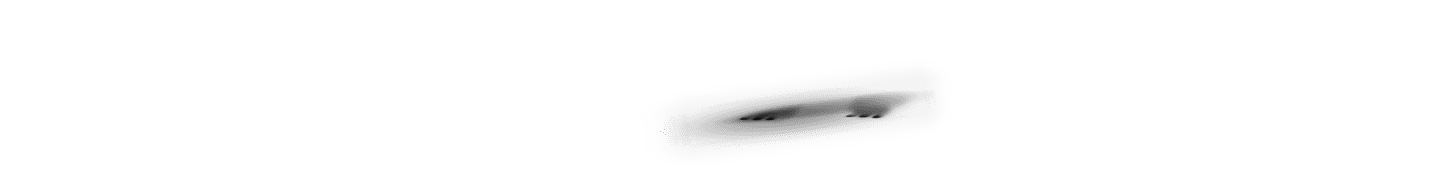
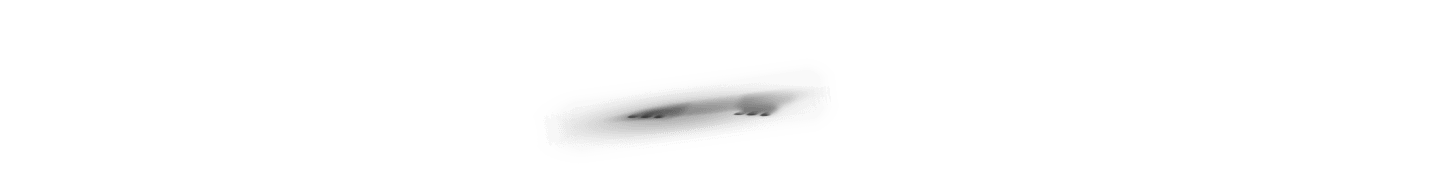
728x90

Changed region(s): [[0.3709, 0.5, 0.649, 0.7778]]

diff --git a/Speed/10608-01_728x90/index.html b/Speed/10608-01_728x90/index.html
@@ -23,25 +23,25 @@
     <div id="main">
         <div id="background"></div>
 
-        <!-- <img src="images/ref.png" id="ref" class="absolute full-width"/> -->
+        <!-- <img src="images/frame.jpg" id="ref" style="opacity: .5; z-index: 111;" class="absolute full-width"/> -->
 
         <!-- <div id="frame-left" class="absolute frame"></div> -->
         <div id="frame-right" class="absolute frame"></div>
         <div id="frame-bottom" class="absolute frame"></div>
 
         <div id="headline">
-          <img src="images/headline-8.png" id="headline-8" class="absolute full-width headline" alt="" />
-          <img src="images/headline-7.png" id="headline-7" class="absolute full-width headline" alt="" />
-          <img src="images/headline-6.png" id="headline-6" class="absolute full-width headline" alt="" />
-          <img src="images/headline-5.png" id="headline-5" class="absolute full-width headline" alt="" />
-          <img src="images/headline-4.png" id="headline-4" class="absolute full-width headline" alt="" />
-          <img src="images/headline-3.png" id="headline-3" class="absolute full-width headline" alt="" />
-          <img src="images/headline-2.png" id="headline-2" class="absolute full-width headline" alt="" />
-          <img src="images/headline-1.png" id="headline-1" class="absolute full-width headline" alt="" />
+          <img src="images/headline-1.png" id="headline-1" class="absolute full-width headline hidden" alt="" />
+          <img src="images/headline-2.png" id="headline-2" class="absolute full-width headline hidden" alt="" />
+          <img src="images/headline-3.png" id="headline-3" class="absolute full-width headline hidden" alt="" />
+          <img src="images/headline-4.png" id="headline-4" class="absolute full-width headline hidden" alt="" />
+          <img src="images/headline-5.png" id="headline-5" class="absolute full-width headline hidden" alt="" />
+          <img src="images/headline-6.png" id="headline-6" class="absolute full-width headline hidden" alt="" />
+          <img src="images/headline-7.png" id="headline-7" class="absolute full-width headline hidden" alt="" />
+          <img src="images/headline-8.png" id="headline-8" class="absolute full-width headline hidden" alt="" />
         </div>
 
-        <img src="images/turtle.png" id="turtle" class="absolute full-width"/>
         <img src="images/turtle-shadow.png" id="turtle-shadow" class="absolute full-width"/>
+        <img src="images/turtle.png" id="turtle" class="absolute full-width"/>
         
         <img src="images/text1.png" id="text1" class="absolute full-width" alt="" />
 

diff --git a/Speed/10608-01_728x90/styles.css b/Speed/10608-01_728x90/styles.css
@@ -39,9 +39,11 @@ html, body {
 }
 
 .headline {
-  top: 25px;
-  left: -728px;
-  transform: scale(0);
+  top: -10px;
+  left: 0px;
+  transform: scale(2.5);
+  transform-origin: center center;
+  display: inline-block;
 }
 
 #turtle,
@@ -56,14 +58,14 @@ html, body {
 
 #logo {
   width: 100px;
-  left: 613px;
-  top: 16px;
+  left: 613.5px;
+  top: 16.5px;
 }
 
 #cta {
-  width: 96px;
+  width: 97px;
   left: 484px;
-  top: 27px;
+  top: 28px;
 }
 
 .frame {
@@ -82,14 +84,14 @@ html, body {
 }
 
 #frame-right {
-  top: -125px;
+  top: -127px;
   left: 793px;
 
   transform: rotate(-20deg);
 }
 
 #frame-bottom {
-  top: 167px;
+  top: 168px;
   left: -250px;
 
   transform: rotate(27deg);

diff --git a/Speed/10608-01_728x90/main.js b/Speed/10608-01_728x90/main.js
@@ -24,9 +24,10 @@ function animate() {
 
   // tl1.set(["#main_content"], { autoAlpha: 1, force3D: true });
   tl1.set(["#cta"], { force3D: false, rotation: .001 });
+  tl1.set(["#turtle-shadow"], { x:"55px", y:"0px" });
   
   tl1.to(['#turtle', '#turtle-shadow'], 1,{  y: '-=35', x: '+=728', ease: "power1.out" }, 0);
-  tl1.staggerTo(['.headline'], 1,{ scale: 1, y: '-=35', x: '+=728', ease: "power1.out" }, 0.1, 0);
+  tl1.staggerTo(['.headline'], 0.5,{ scale: 1, autoAlpha:1,  ease: "back.out(1.1)" }, 0.1, 0);
 
   tl1.to(['#frame-right'], 1,{ x: '-=100', ease: "power1.out" }, '+=0');
   tl1.to(['#frame-bottom'], 1,{ x: '+=100', ease: "power1.out" }, '<');

diff --git a/index.html b/index.html
@@ -61,6 +61,7 @@
         <a href="Speed/10608-01_300x250/index.html" target="_blank">300x250</a>
         <a href="Speed/10608-01_300x600/index.html" target="_blank">300x600</a>
         <a href="Speed/10608-01_970x250/index.html" target="_blank">970x250</a>
+        <a href="Speed/10608-01_728x90/index.html" target="_blank">728x90</a>
     </div>
 </body>
 </html>
